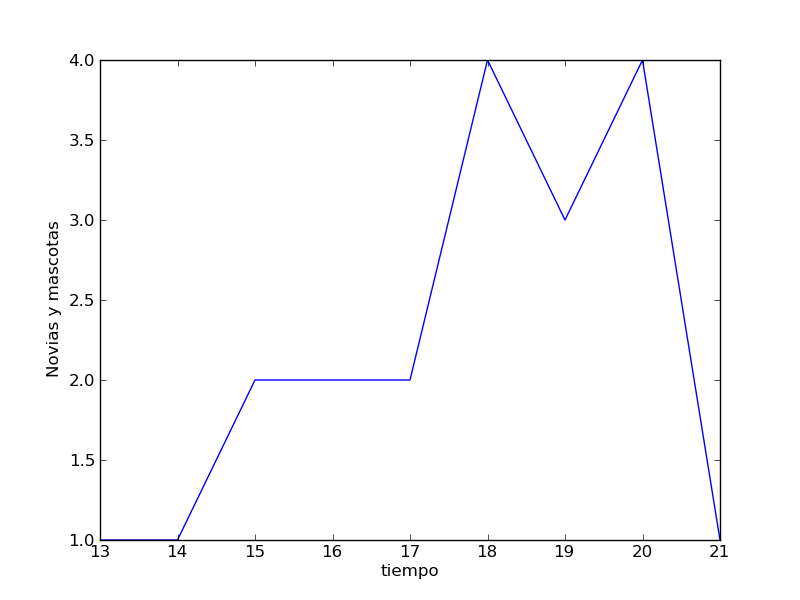
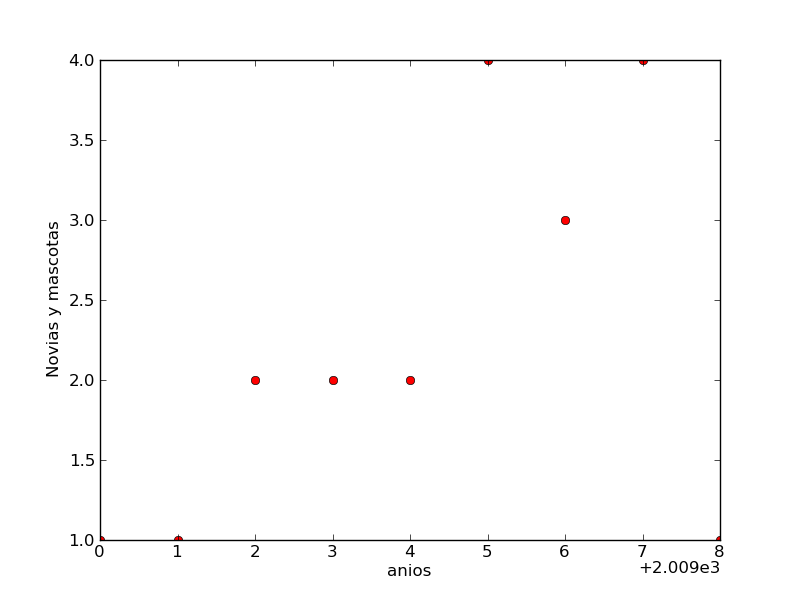
2 axis graph

diff --git a/temp1.py b/temp1.py
@@ -1,13 +1,15 @@
 import numpy as np
 import pylab as pl
 # Crea un vector (arreglo) con los valores del eje X
-x = [13,14,15,16,17,18,19,20,21]
+x = [2009,2010,2011,2012,2013,2014,2015,2016,2017]
 # Crea un vector (arreglo) con los valores en el eje Y para cada valor en el eje X
 y = [1,1,2,2,2,4,3,4,1]
 #Con esta isntruccion colocamos un titulo al eje Y de la grafica. 
 pl.ylabel('Novias y mascotas')
-pl.xlabel('tiempo')
+pl.xlabel('anios')
 # Grafica el vector x contra el vector y
-pl.plot(x,y)
+pl.axis ([2005,2020, 0,5])
+pl.plot(x,y, 'ro')
 #Guarda la grafica en el formato png
 pl.savefig('temp1.png')
+pl.show()
